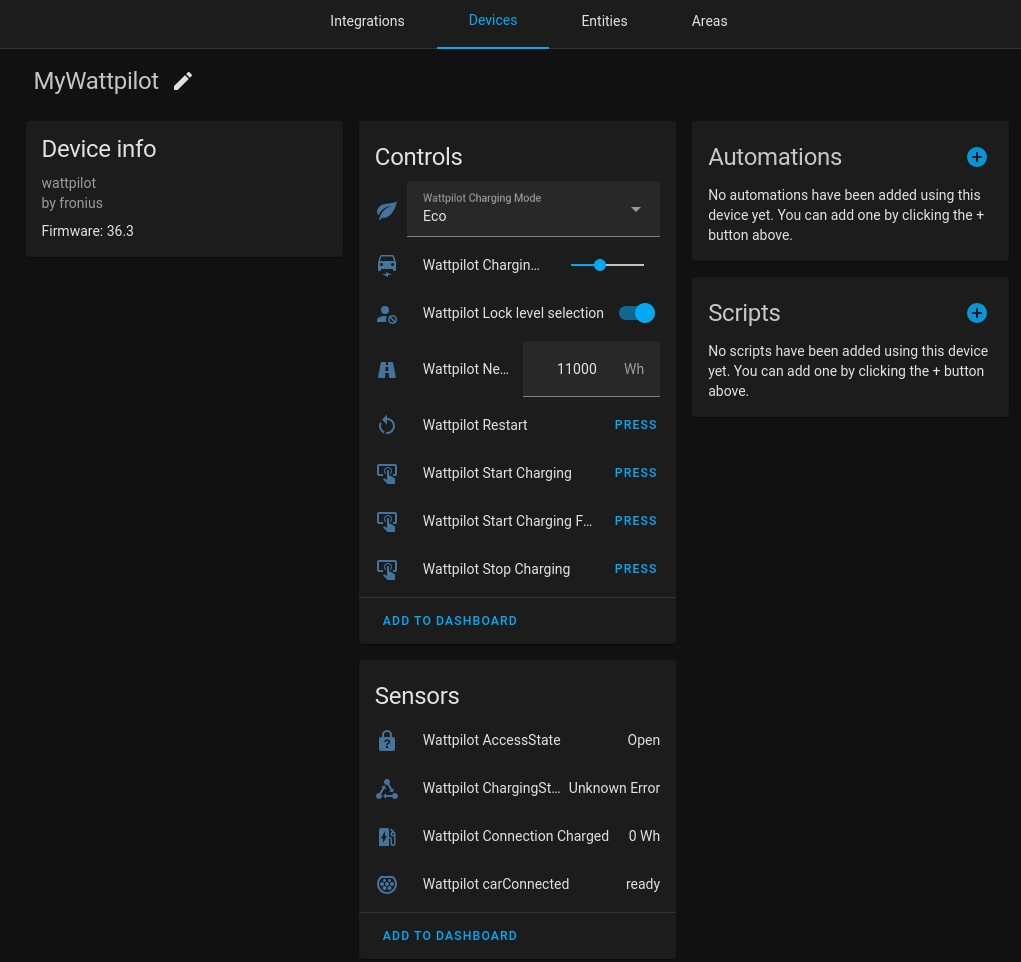
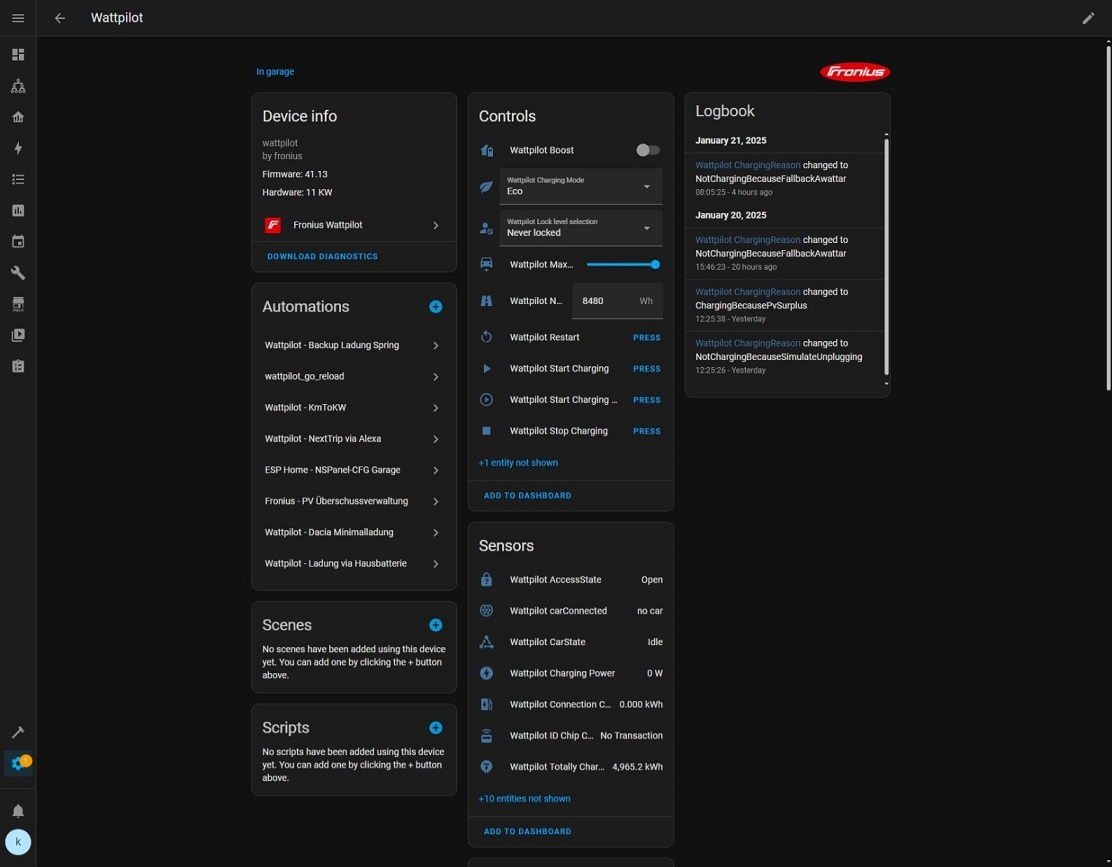
Update Readme

diff --git a/README.md b/README.md
@@ -29,12 +29,14 @@ Not me neither any of contributors to this or any prerequired/dependency project
 
 # What It Does:
 
-Allows for control of [Fronius Wattpilot](https://www.fronius.com/en/solar-energy/installers-partners/technical-data/all-products/solutions/fronius-wattpilot/fronius-wattpilot/wattpilot-home-11-j) wallbox/electro vehicle charging devices via home assistant with the following features:
+Allows for control of [Fronius Wattpilot](https://www.fronius.com/en/solar-energy/installers-partners/products-solutions/residential-energy-solutions/e-mobility-and-photovoltaic-residential/wattpilot-ev-charging-solution-for-homes) wallbox/electro vehicle charging devices via home assistant with the following features:
 
+* connect charger via local LAN or via Cloud
 * charging mode change
 * start / stop charging
 * configuration for different charging behaviours
 * sensors for charging box status
+* manual disconnect/reconnect chargers (Helpful for Wattpilot GO version)
 * next trip timing configuration via service call (& event when next trip timing value is changed) -> you can create an [input_datetime (example)](packages/wattpilot/wattpilot_input_datetime.yaml) entity & corresponding [automation (example)](packages/wattpilot/wattpilot_automation.yaml) which ensures the input_datetime is in sync with the setting wihtin your wattpilot charger
 * log value changes for properties of the wallbox as warnings (enable/disable via service call)
 * can enable/disable e-go cloud charging API (enable/disable via service call) -> this is at your own responsibility - is not clear if fronius/you "pay" in some way for the e-go cloud API and thus are legally allowed to use -> as it is not required at the moment for the functionality of this component, I do not recommend to enable
@@ -43,14 +45,11 @@ Allows for control of [Fronius Wattpilot](https://www.fronius.com/en/solar-energ
 
 * create an [update entity](https://www.home-assistant.io/blog/2022/04/06/release-20224/#introducing-update-entities)
 * create a light integration for LED color control etc.
-* OCPP values support
 
 ## Known Errors:
 
-* after Wattpilot firmware update the device no longer establishes an active connection until next HA restart.
-  WORKAROUND: Restart home assistant once after Wattpilot firmware upgrade 
-* after Wattpilot has gone offline (due to power loss / Wattpilot GO / WiFi disconnect) the device no longer establishes an active connection until next HA restart.
-  WORKAROUND: Restart home assistant once after Wattpilot was offline
+* No explicit known errors
+* See https://github.com/mk-maddin/wattpilot-HA/issues for issues.
 
 # Screenshots
 
@@ -59,6 +58,8 @@ Allows for control of [Fronius Wattpilot](https://www.fronius.com/en/solar-energ
 ![screenshot of Wattpilot Device](doc/device_view1.jpg)
 
 ![screenshot of Wattpilot Device](doc/device_view2.jpg)
+
+![screenshot of Wattpilot Device](doc/device_view3.jpg)
 
 ### Next Trip via timing via Service Call
 
@@ -98,6 +99,7 @@ for the integration to appear within the integration store.
 4. In the bottom right, click on the Add Integration button.
 5. From the list, search and select "Fronius Wattpilot".
 6. Follow the instruction on screen to complete the set up.
+   (If connecting local/LAN you will require the local IP - for cloud connection your wattpilot serial is required)
 
 ![screenshot of Config Flow](doc/config_flow1.jpg)
 
